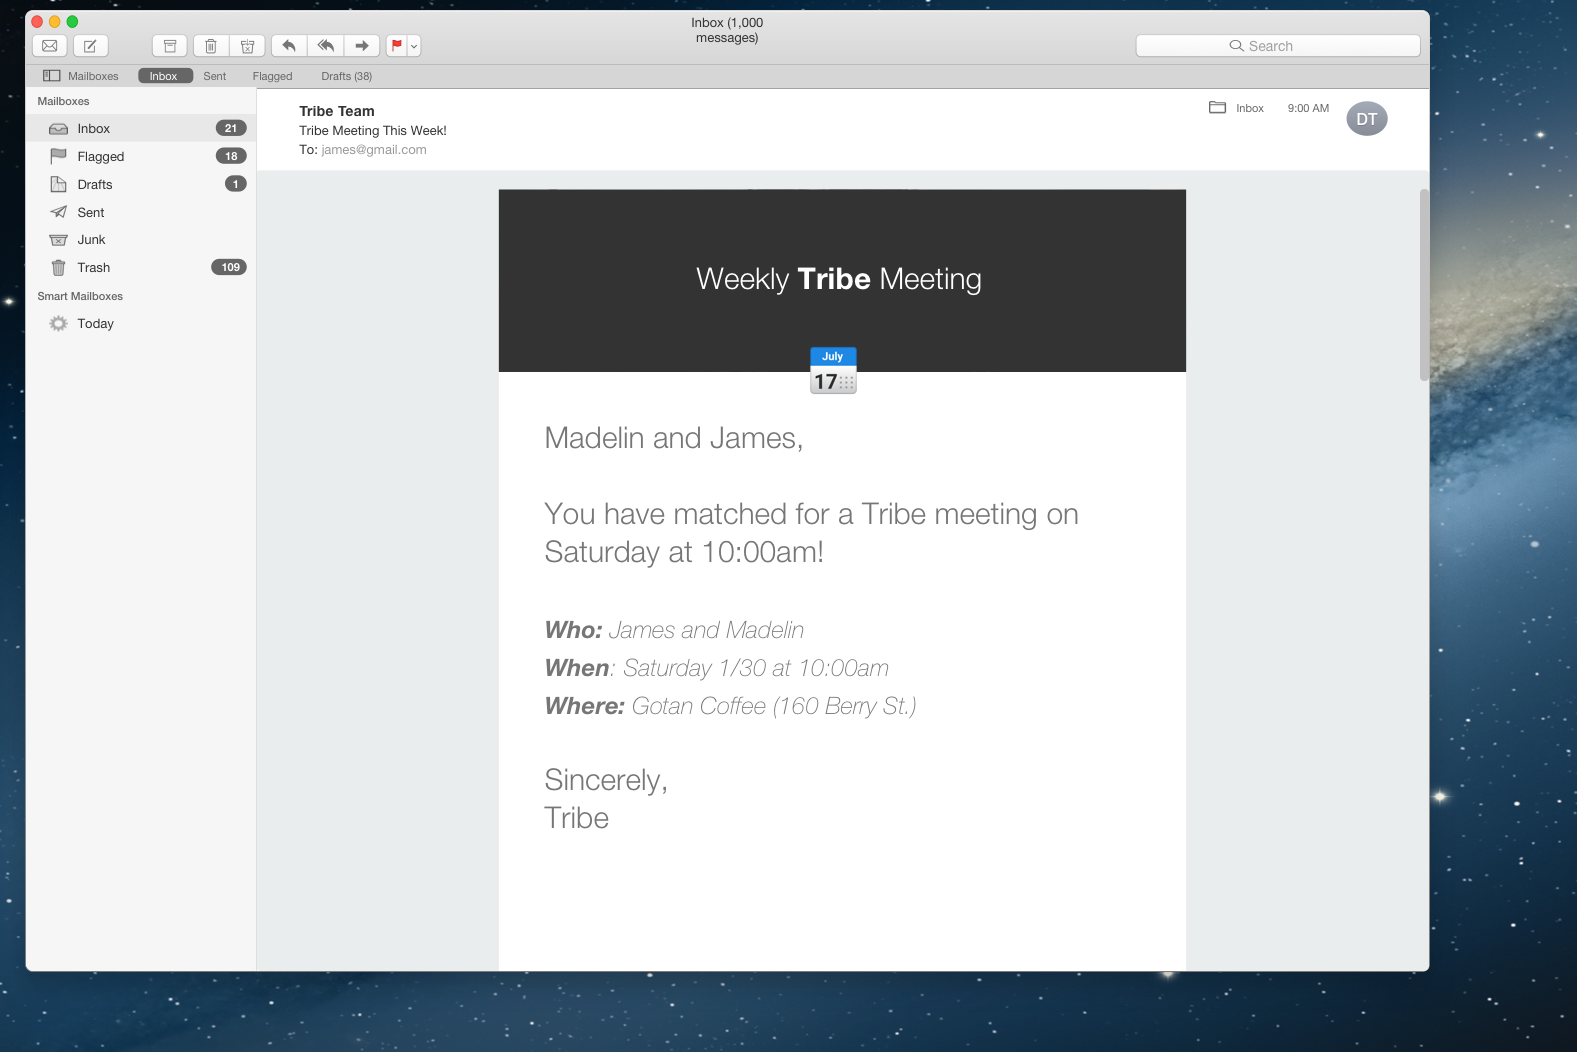
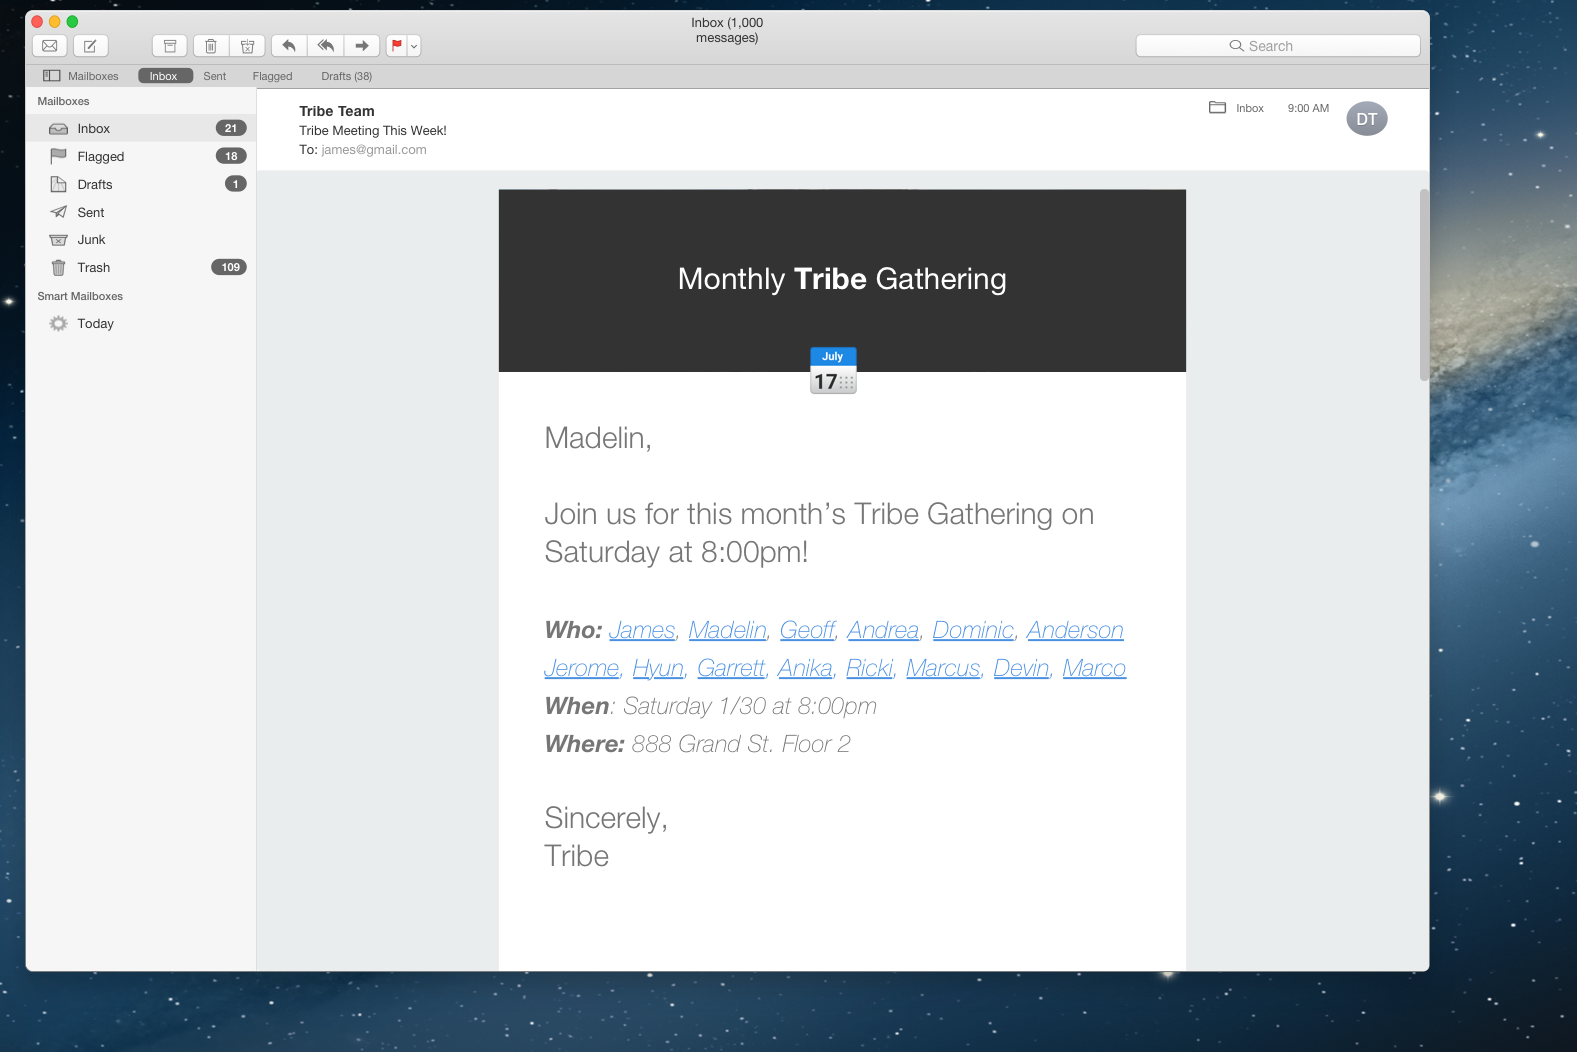
meetings -> dinner

diff --git a/index.html b/index.html
@@ -33,14 +33,14 @@
       <div class="container-sml text-center">
         <div class="col-12">
           <h1 class="heading">
-            Advisor ⇄ Startup Intros in <b>NYC</b> Each Week
+            Advisor ⇄ Startup Dinners<br>in <b>NYC</b> Each Month 🍣
           </h1>
         </div>
       </div>
       <div class="container-lrg flex">
         <div class="col-6 centervertical">
           <h2 class="paragraph">
-            For now, Tribe is an invite only group that accepts ~28% of applications.&nbsp;
+            Startups and first time advisors, we encourage you to apply! (To be transparent, we accept ~26% of applicants.)&nbsp;
           </h2>
           <div class="ctas">
             <input class="ctas-input" type="text" placeholder="Your Email Address">
@@ -72,7 +72,7 @@
             Become a Member
           </h3>
           <p class="paragraph">
-            Tribe is stacked community of technology industry professionals. We are here to broker meaningful relationships between advisors and early stage technology companies (<u>free</u> of charge)
+            Tribe is stacked community of technology industry professionals. We are here to broker meaningful relationships between first time advisors and early stage technology companies over home cooked meals (<u>free</u> of charge)
           </p>
         </div>
         <div class="col-4">
@@ -80,10 +80,10 @@
             🗓
           </b>
           <h3 class="subheading">
-            Weekly Invitations
+            Monthly Invitations
           </h3>
           <p class="paragraph">
-            Once you have been approved as a Tribe member, we will send you one introductory email each week. You will have the choice to accept, edit, or decline a meeting with the Tribe member you have matched with.
+            Once you have joined the Tribe community, we will send one dinner invitation each month along with the location and guest list for the evening. We ask that guests bring one dish of their choosing (this is how we keep it free)
           </p>
         </div>
         <div class="col-4">
@@ -94,7 +94,7 @@
             Advise or Invest
           </h3>
           <p class="paragraph">
-            If there is a good fit, discuss next steps and let us know how it went!
+            Eat, drink, and enjoy good company- that's really it! if there is a good fit, discuss next steps and let us know how it went!
           </p>
         </div>
       </div>
